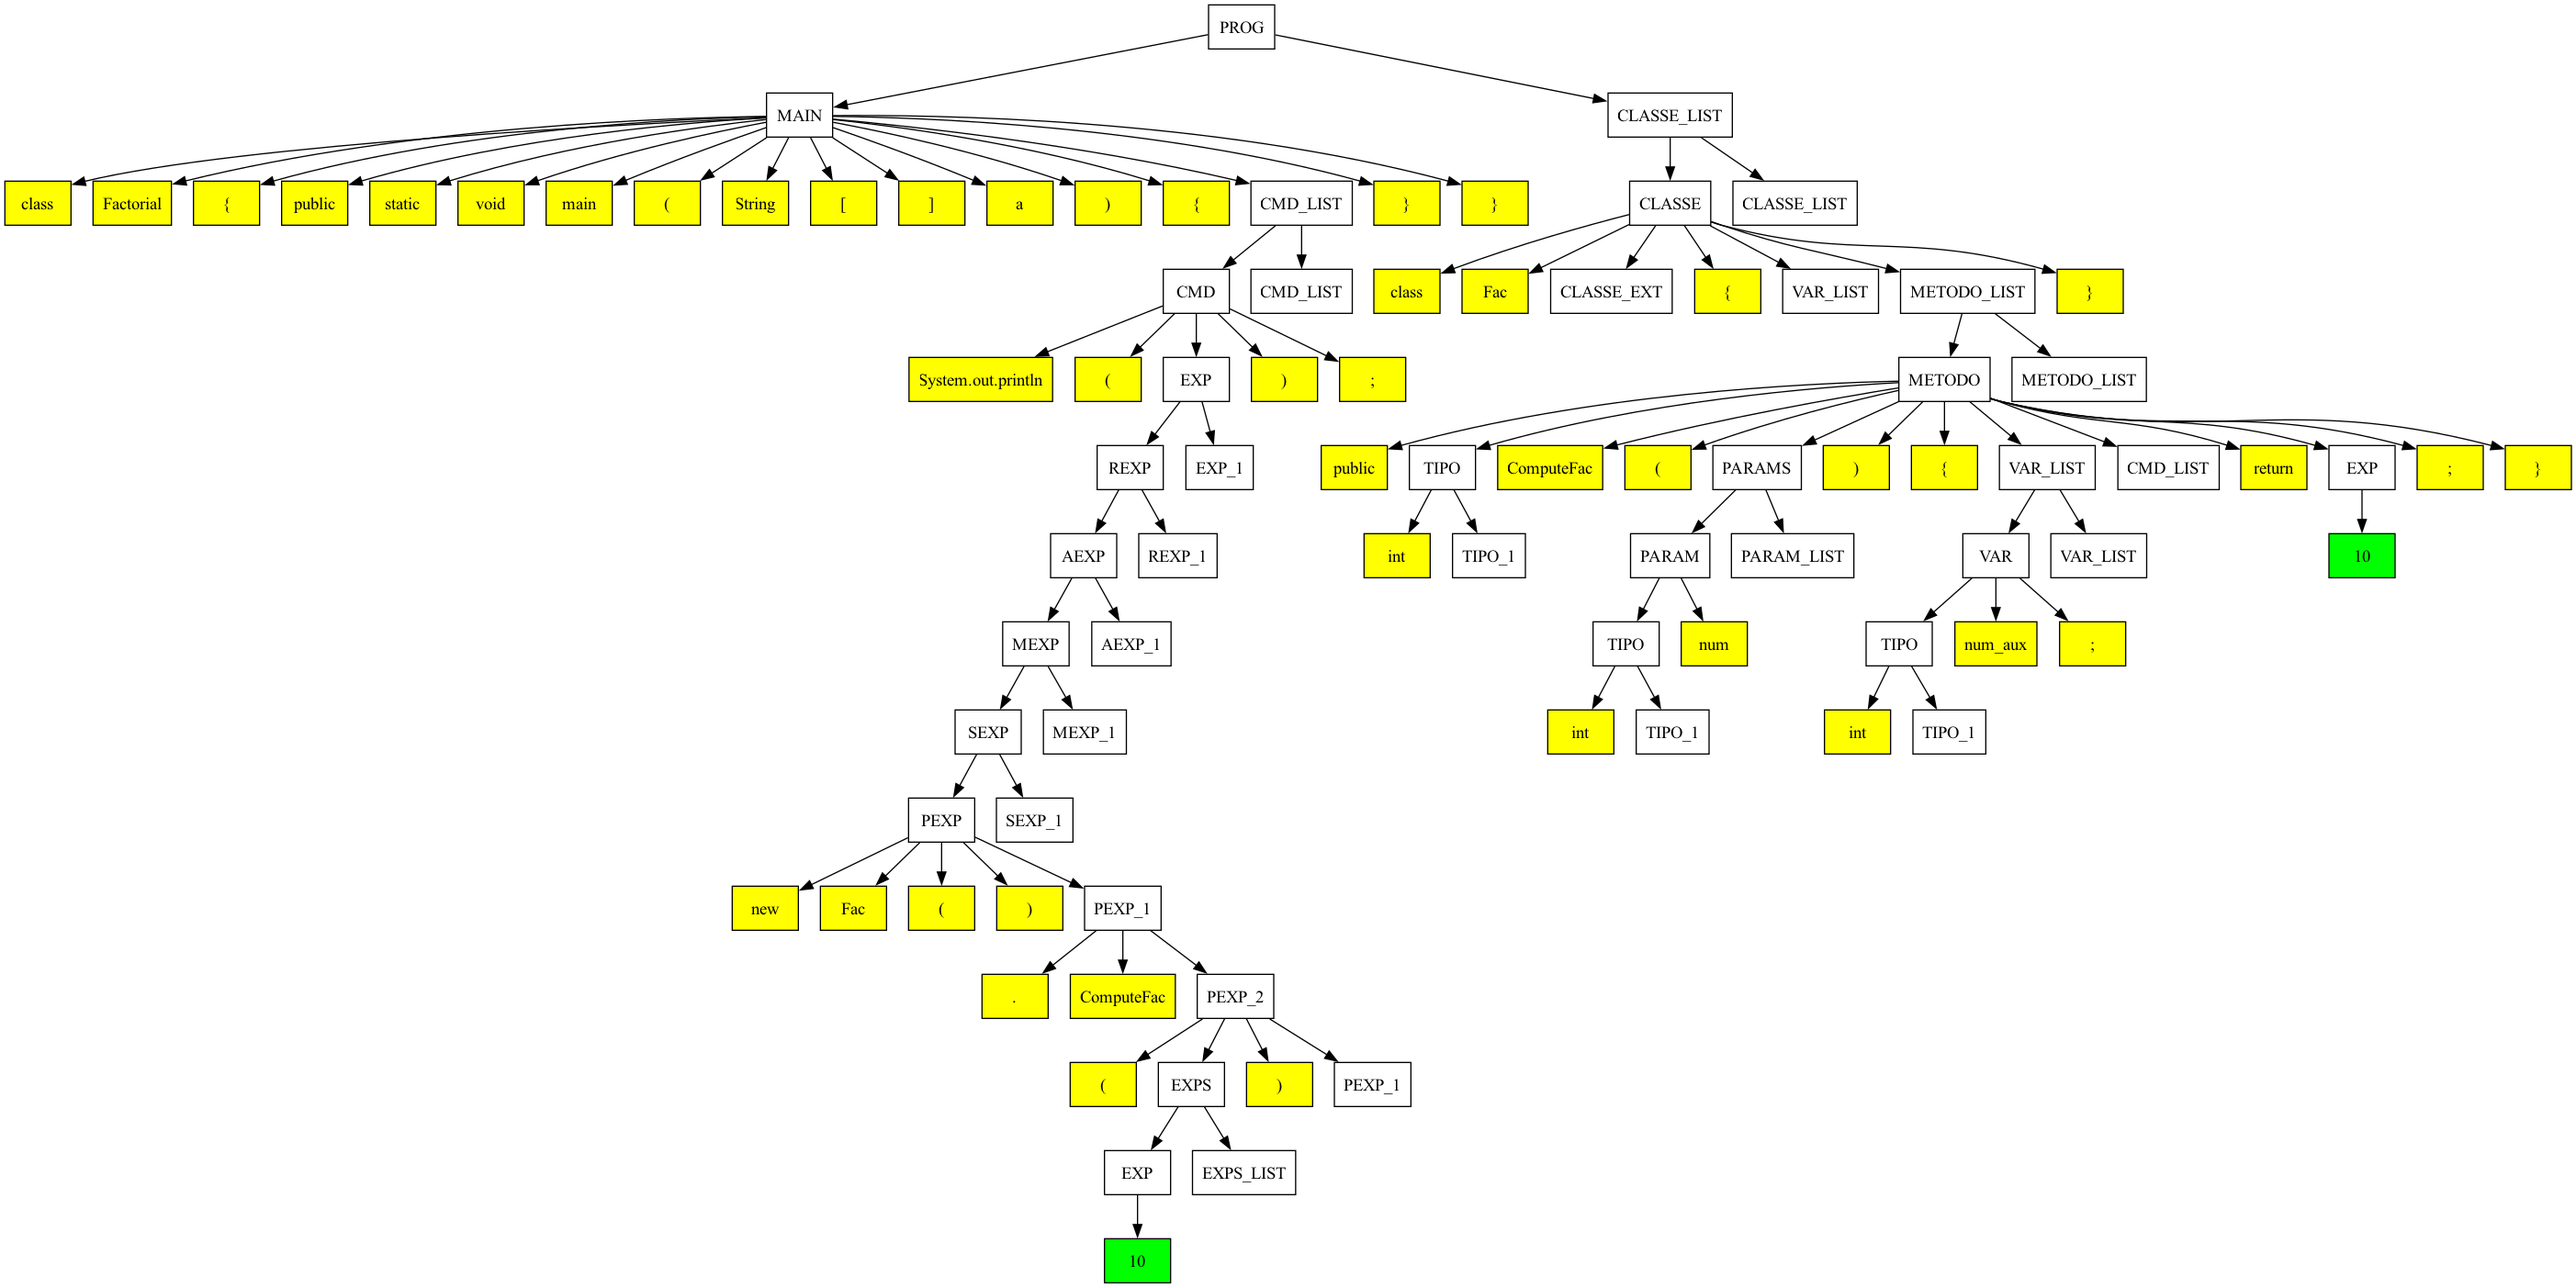
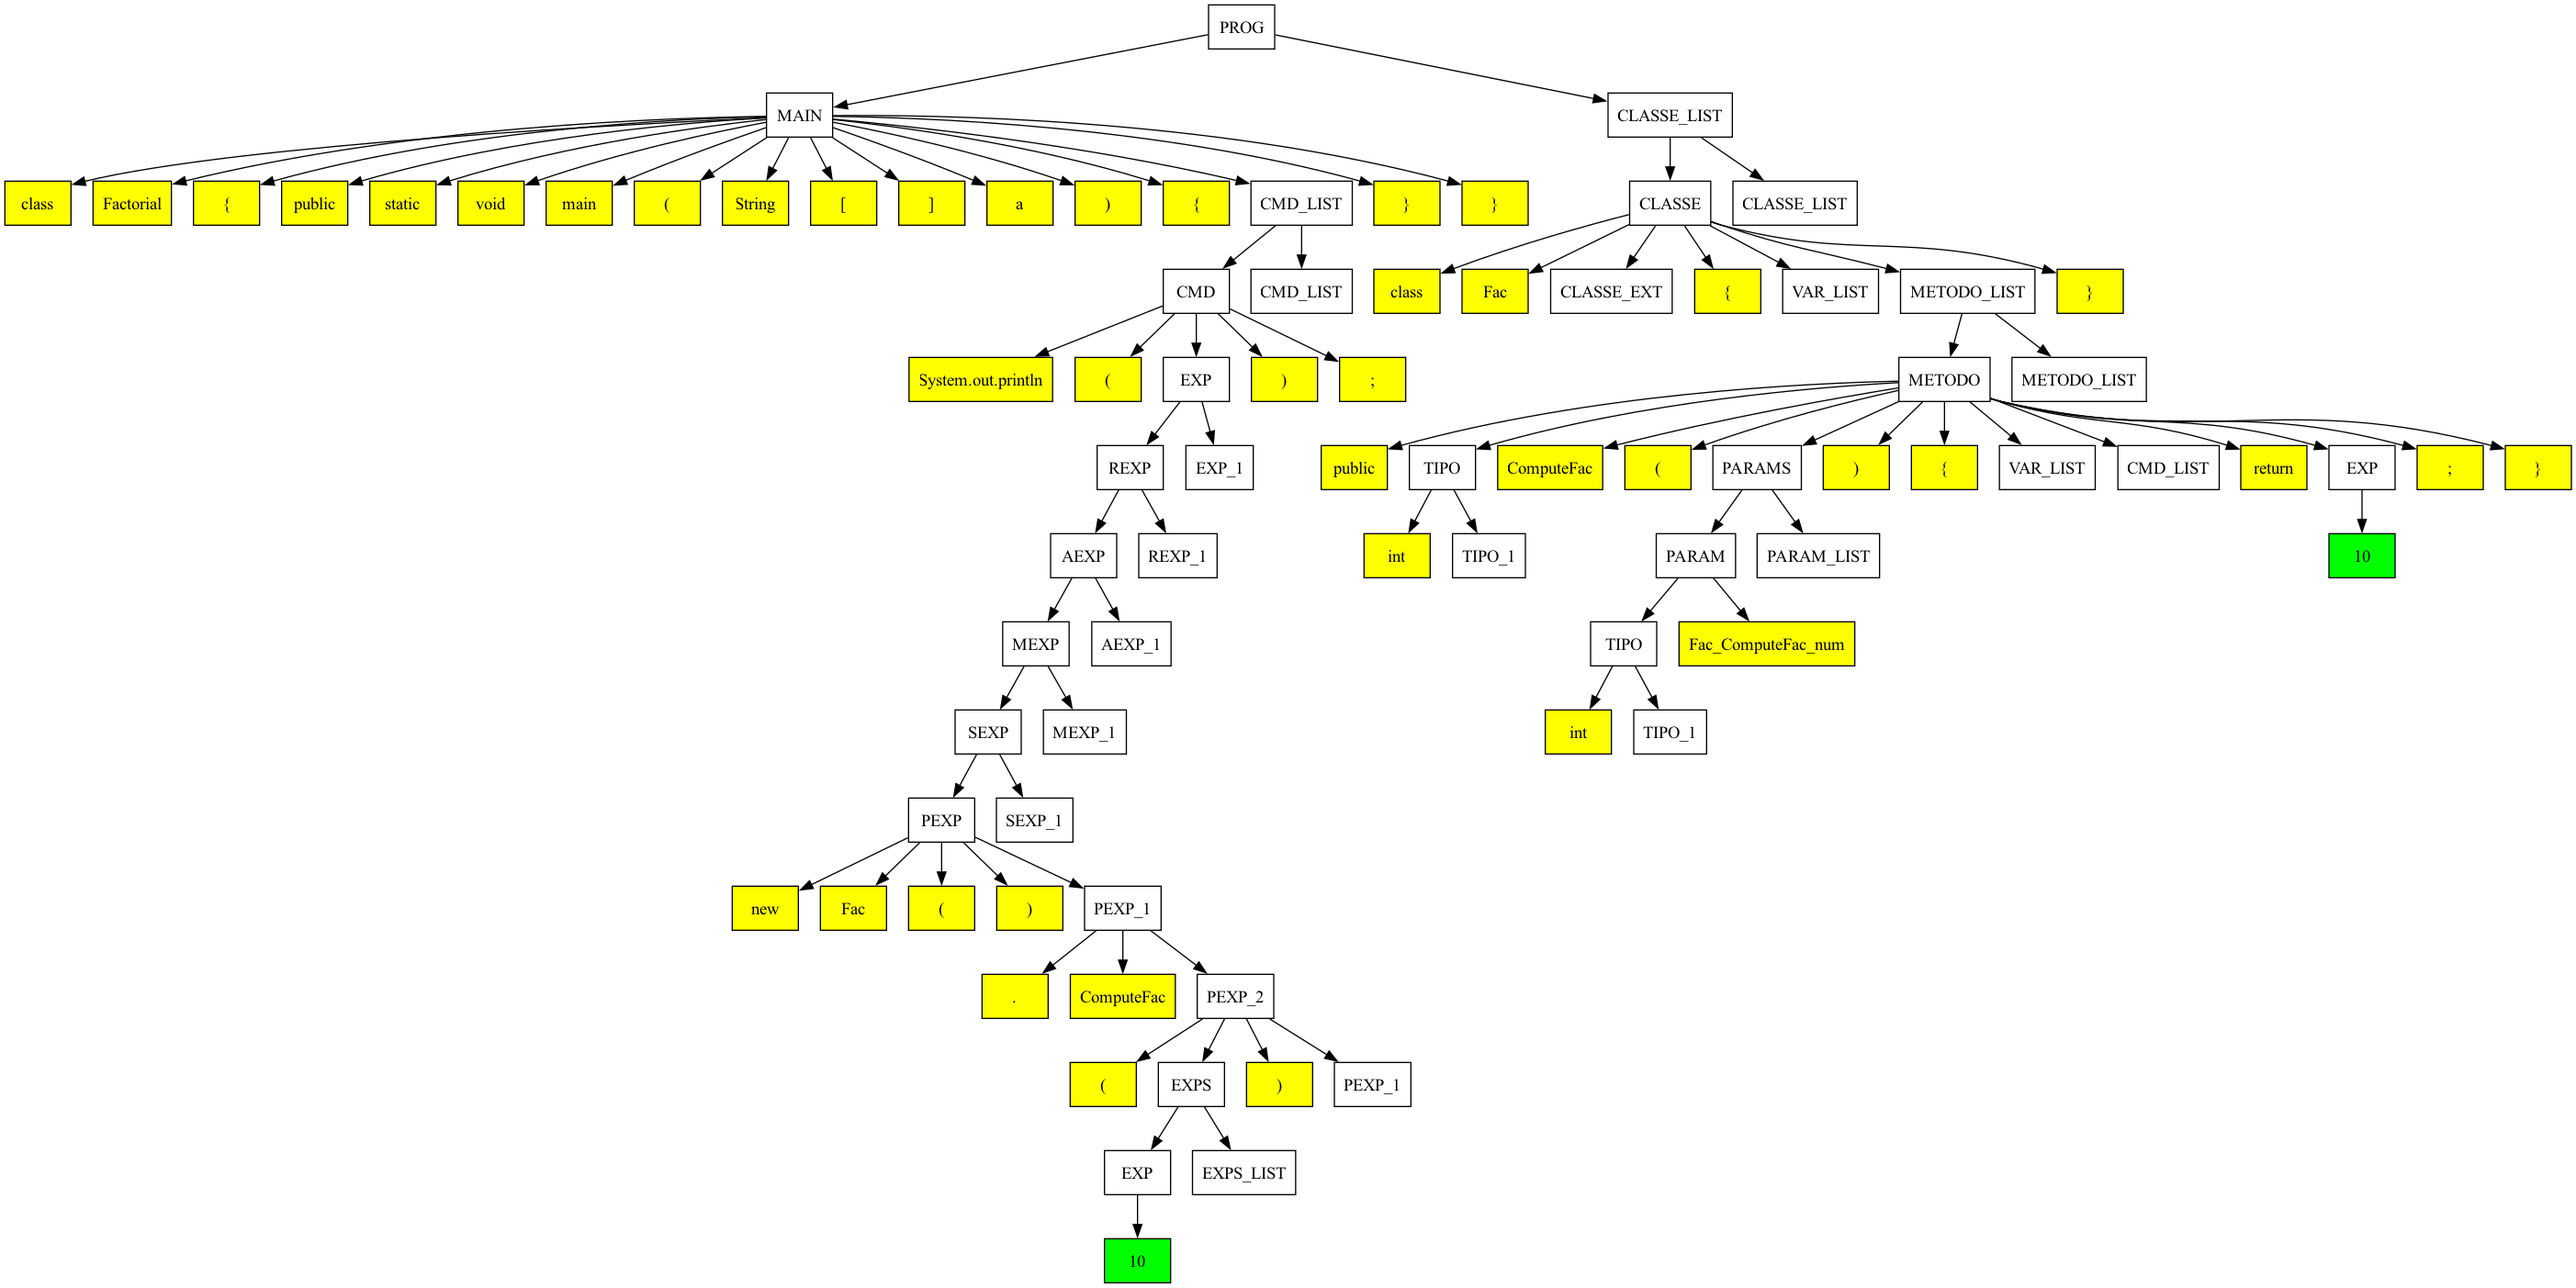
avancos

Changed region(s): [[0.6203, 0.3984, 0.8374, 0.5823], [0.6824, 0.5517, 0.7444, 0.5823]]

diff --git a/main.py b/main.py
@@ -1,7 +1,7 @@
 from graphviz import Digraph
 from grammar import grammar
 import re
-
+import copy
 
 class Node:
     def __init__(self, value=None, children=None, terminal=False, kind=None, parent=None, line=None, column=None):
@@ -126,6 +126,7 @@ class Parser:
             if element in self.grammar:  # Não terminal
                 child_node = self.parse_rule(element)
                 if child_node:
+                    child_node.parent = root
                     root.children.append(child_node)
             else:  # Terminal
                 token_resp = self.consume(element, rule_name)
@@ -153,6 +154,32 @@ class SemanticAnalyzer:
     def __init__(self):
         self.symbol_table = {}
         self.highlighted_nodes = set()
+        
+    def build_name(self, node):
+        method_name = ""
+        class_name = ""
+        node_aux = copy.copy(node)
+        
+        while node_aux and node_aux.value and node_aux.value != "METODO":
+            node_aux = node_aux.parent
+        
+        if(not node_aux):
+            return node.value
+        
+        method_name = node_aux.children[2].value  
+        
+        while node_aux and node_aux.value and node_aux.value != "CLASSE":
+            node_aux = node_aux.parent        
+            
+        if (not node_aux):
+            return node.value
+            
+        class_name = node_aux.children[1].value  
+        
+        if(class_name and method_name):
+            return f"{class_name}_{method_name}_{node.value}"
+        else:
+            return node.value
 
     def analyze(self, node):
         print(f"Analyzing node: {node.value}, of kind: {node.kind} with parent: {node.parent.value if node.parent else None}")
@@ -160,7 +187,7 @@ class SemanticAnalyzer:
         if node.kind == "IDENTIFIER":
             if node.parent.value == "CLASSE" or node.parent.value == "METODO" or node.parent.value == "MAIN":
                 var_name = node.value
-                self.symbol_table[var_name] = node.parent.kind
+                self.symbol_table[var_name] = "method_class"
 
         for child in node.children:
             self.analyze(child)
@@ -170,12 +197,20 @@ class SemanticAnalyzer:
 
         if node.kind == "IDENTIFIER":
             if node.parent.value == "VAR" or node.parent.value == "PARAM":
-                var_name = node.value
+                var_name = self.build_name(node)                
+                    
+                if var_name in self.symbol_table:
+                    raise Exception(f"Variable '{node.value}' already declared in scope.")
                 self.symbol_table[var_name] = node.parent.kind
-            else:
-                var_name = node.value
-                if var_name not in self.symbol_table:
-                    raise Exception(f"[Error]: Variable '{var_name}' used before declaration in line {node.line} column {node.column}")
+                node.value = var_name
+            elif node.parent.value != "MAIN":
+                if node.value in self.symbol_table and self.symbol_table[node.value] == "method_class":
+                    pass
+                else:
+                    var_name = self.build_name(node)
+                    if var_name not in self.symbol_table:
+                        raise Exception(f"Variable '{var_name}' not declared in symbol table")
+                    node.value = var_name
                 
         print(f"Symbol Table: {self.symbol_table}\n")
         
@@ -248,14 +283,14 @@ class MIPSCodeGenerator:
                 self.generate_code(child)
 
         elif node.value == "VAR":
-            # Declaração de variável
+            # Variável: gera um rótulo para a variável
             var_name = node.children[1].value
             if var_name not in self.variable_map:
                 self.variable_map[var_name] = f"{var_name}: .word 0"
                 if ".data" not in self.code:
                     self.code.insert(0, ".data")
                 self.code.insert(1, self.variable_map[var_name])
-
+                
         elif node.value == "METODO":
             # Método: gera um rótulo para o método
             method_name = node.children[2].value
@@ -311,7 +346,6 @@ class MIPSCodeGenerator:
                 self.code.append("syscall")
                 
             elif len(node.children) == 2:
-                # precisa revisao (identificador)
                 self.generate_code(node.children[1])
                 
         elif node.value == "CMD_ELSE":
@@ -330,14 +364,14 @@ class MIPSCodeGenerator:
                 self.code.append(f"sw {expr_reg}, {self.variable_map[var_name]}")
             elif len(node.children) == 5:
                 var_name = node.children[0].value
-                index_reg = self.generate_code(node.children[2])
                 expr_reg = self.generate_code(node.children[4])
+                index_reg = self.generate_code(node.children[2])
                 if var_name not in self.variable_map:
                     self.variable_map[var_name] = f"{var_name}: .word 0"
                     if ".data" not in self.code:
                         self.code.insert(0, ".data")
                     self.code.insert(1, self.variable_map[var_name])
-                self.code.append(f"sw {expr_reg}, {index_reg}({self.variable_map[var_name]})")
+                self.code.append(f"sw {expr_reg}, {self.variable_map[var_name]}({index_reg})")
 
         elif node.value == "EXP":
             if node.children[0].kind == "NUMBER":
@@ -361,6 +395,22 @@ class MIPSCodeGenerator:
                     self.code.append(f"sub {reg}, {left}, {right}")
                 return reg
             return left
+        
+        elif node.value == "PEXP":
+            if node.children[0].value == "IDENTIFIER":
+                var_name = node.children[0].value
+                if var_name not in self.variable_map:
+                    self.variable_map[var_name] = f"{var_name}: .word 0"
+                    if ".data" not in self.code:
+                        self.code.insert(0, ".data")
+                    self.code.insert(1, self.variable_map[var_name])
+                reg = self.get_temp_register()
+                self.code.append(f"lw {reg}, {self.variable_map[var_name]}")
+                return reg
+            elif node.children[0].value == "NUMBER":
+                reg = self.get_temp_register()
+                self.code.append(f"li {reg}, {node.children[0].value}")
+                return reg
 
         elif node.value == "MEXP":
             left = self.generate_code(node.children[0])
@@ -370,8 +420,6 @@ class MIPSCodeGenerator:
                 reg = self.get_temp_register()
                 if operator == "*":
                     self.code.append(f"mul {reg}, {left}, {right}")
-                elif operator == "/":
-                    self.code.append(f"div {reg}, {left}, {right}")
                 return reg
             return left
 
@@ -467,7 +515,6 @@ if __name__ == "__main__":
     }
     class Fac { 
         public int ComputeFac(int num){
-            int num_aux ;
             return 10;
         } 
     }

diff --git a/parser_steps.md b/parser_steps.md
@@ -907,60 +907,6 @@ Production: `TIPO`  ->  `['int', 'TIPO_1']`
 
 Analyzing Element: `int` of production
 
-- Consuming token with value: `int` and kind: `RESERVED` (consumed inside production: `TIPO`)                            
-- Expected token with value: `int`                            
-- Current token index: 40
-
-Analyzing Element: `TIPO_1` of production
-
-
-Production: `TIPO_1`  ->  `['[', ']']`
-
-
-Analyzing Element: `[` of production
-
-Expected production element:`[`, but current token is:`num_aux`
-- Heading back to grammar production: `TIPO_1` ->  `['']`
-
-
-Analyzing Element: `""` of production
-
-- Exiting grammar production: `TIPO_1`
-- Exiting grammar production: `TIPO`
-
-Analyzing Element: `IDENTIFIER` of production
-
-- Consuming token with value: `num_aux` and kind: `IDENTIFIER` (consumed inside production: `VAR`)                            
-- Expected token with value: `IDENTIFIER`                            
-- Current token index: 41
-
-Analyzing Element: `;` of production
-
-- Consuming token with value: `;` and kind: `OPERATOR` (consumed inside production: `VAR`)                            
-- Expected token with value: `;`                            
-- Current token index: 42
-- Exiting grammar production: `VAR`
-
-Analyzing Element: `VAR_LIST` of production
-
-
-Production: `VAR_LIST`  ->  `['VAR', 'VAR_LIST']`
-
-
-Analyzing Element: `VAR` of production
-
-
-Production: `VAR`  ->  `['TIPO', 'IDENTIFIER', ';']`
-
-
-Analyzing Element: `TIPO` of production
-
-
-Production: `TIPO`  ->  `['int', 'TIPO_1']`
-
-
-Analyzing Element: `int` of production
-
 Expected production element:`int`, but current token is:`return`
 - Heading back to grammar production: `TIPO` ->  `['boolean']`
 
@@ -981,7 +927,6 @@ Expected production element:`IDENTIFIER`, but current token is:`return`
 
 Analyzing Element: `""` of production
 
-- Exiting grammar production: `VAR_LIST`
 - Exiting grammar production: `VAR_LIST`
 
 Analyzing Element: `CMD_LIST` of production
@@ -1035,7 +980,7 @@ Analyzing Element: `return` of production
 
 - Consuming token with value: `return` and kind: `RESERVED` (consumed inside production: `METODO`)                            
 - Expected token with value: `return`                            
-- Current token index: 43
+- Current token index: 40
 
 Analyzing Element: `EXP` of production
 
@@ -1095,7 +1040,7 @@ Analyzing Element: `NUMBER` of production
 
 - Consuming token with value: `10` and kind: `NUMBER` (consumed inside production: `SEXP`)                            
 - Expected token with value: `NUMBER`                            
-- Current token index: 44
+- Current token index: 41
 - Exiting grammar production: `SEXP`
 
 Analyzing Element: `MEXP_1` of production
@@ -1188,13 +1133,13 @@ Analyzing Element: `;` of production
 
 - Consuming token with value: `;` and kind: `OPERATOR` (consumed inside production: `METODO`)                            
 - Expected token with value: `;`                            
-- Current token index: 45
+- Current token index: 42
 
 Analyzing Element: `}` of production
 
 - Consuming token with value: `}` and kind: `OPERATOR` (consumed inside production: `METODO`)                            
 - Expected token with value: `}`                            
-- Current token index: 46
+- Current token index: 43
 - Exiting grammar production: `METODO`
 
 Analyzing Element: `METODO_LIST` of production
@@ -1225,7 +1170,7 @@ Analyzing Element: `}` of production
 
 - Consuming token with value: `}` and kind: `OPERATOR` (consumed inside production: `CLASSE`)                            
 - Expected token with value: `}`                            
-- Current token index: 47
+- Current token index: 44
 - Exiting grammar production: `CLASSE`
 
 Analyzing Element: `CLASSE_LIST` of production

diff --git a/scanned_tokens.md b/scanned_tokens.md
@@ -79,18 +79,12 @@
 
 `OPERATOR`: `{` at line 7, column 30
 
-`RESERVED`: `int` at line 8, column 0
+`RESERVED`: `return` at line 8, column 0
 
-`IDENTIFIER`: `num_aux` at line 8, column 4
+`NUMBER`: `10` at line 8, column 7
 
-`OPERATOR`: `;` at line 8, column 12
+`OPERATOR`: `;` at line 8, column 9
 
-`RESERVED`: `return` at line 9, column 0
-
-`NUMBER`: `10` at line 9, column 7
-
-`OPERATOR`: `;` at line 9, column 9
+`OPERATOR`: `}` at line 9, column 0
 
 `OPERATOR`: `}` at line 10, column 0
-
-`OPERATOR`: `}` at line 11, column 0
